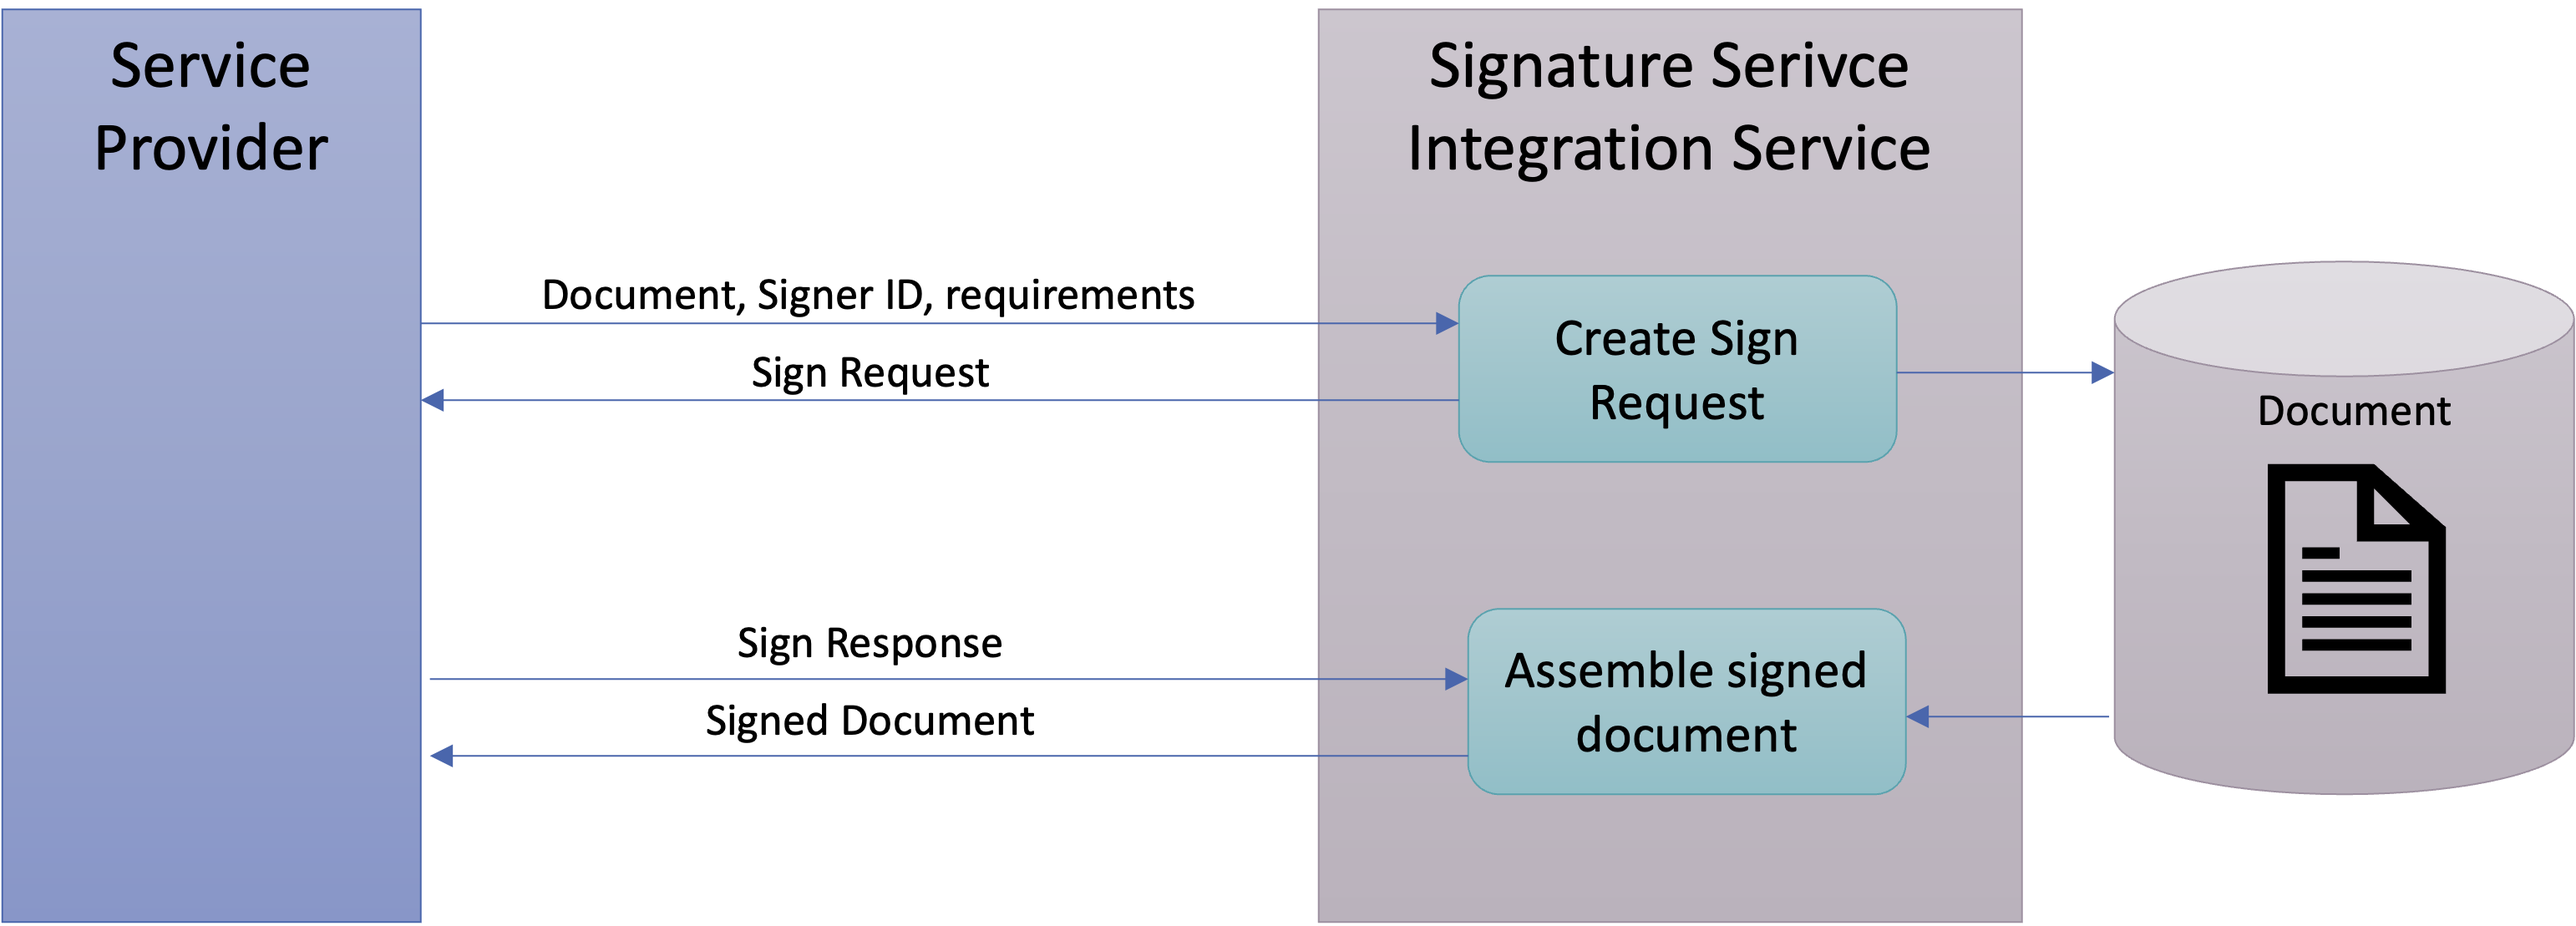
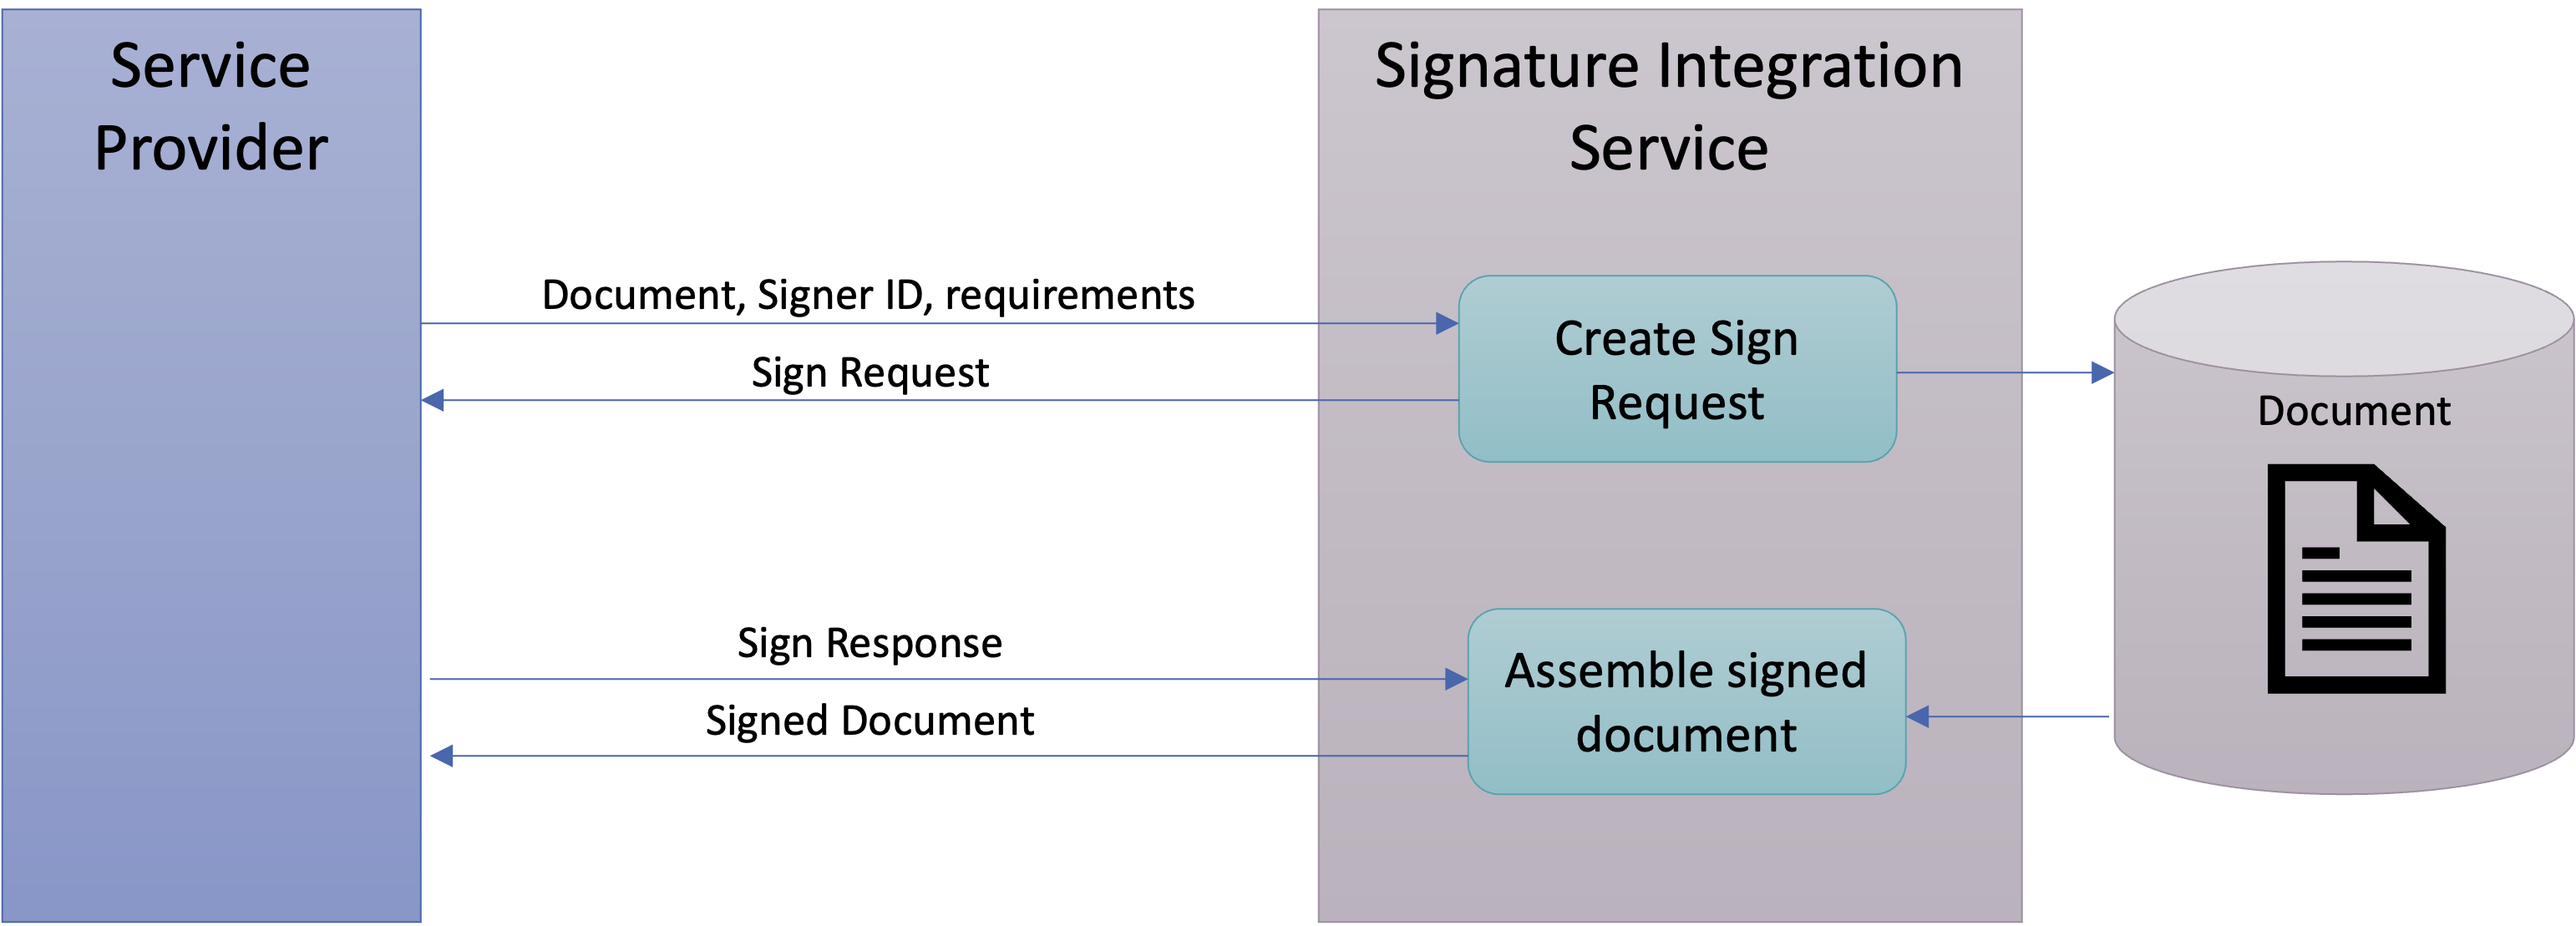
image fixes

Changed region(s): [[0.5292, 0.0307, 0.7782, 0.1839]]

diff --git a/docs/what-is.md b/docs/what-is.md
@@ -2,7 +2,7 @@
 
 # What is a Signature Service?
 
-![SignServiceOverview](images/signservice-overview.svg)
+![SignServiceOverview](images/signservice-overview.png)
 
 ## Overview
 
